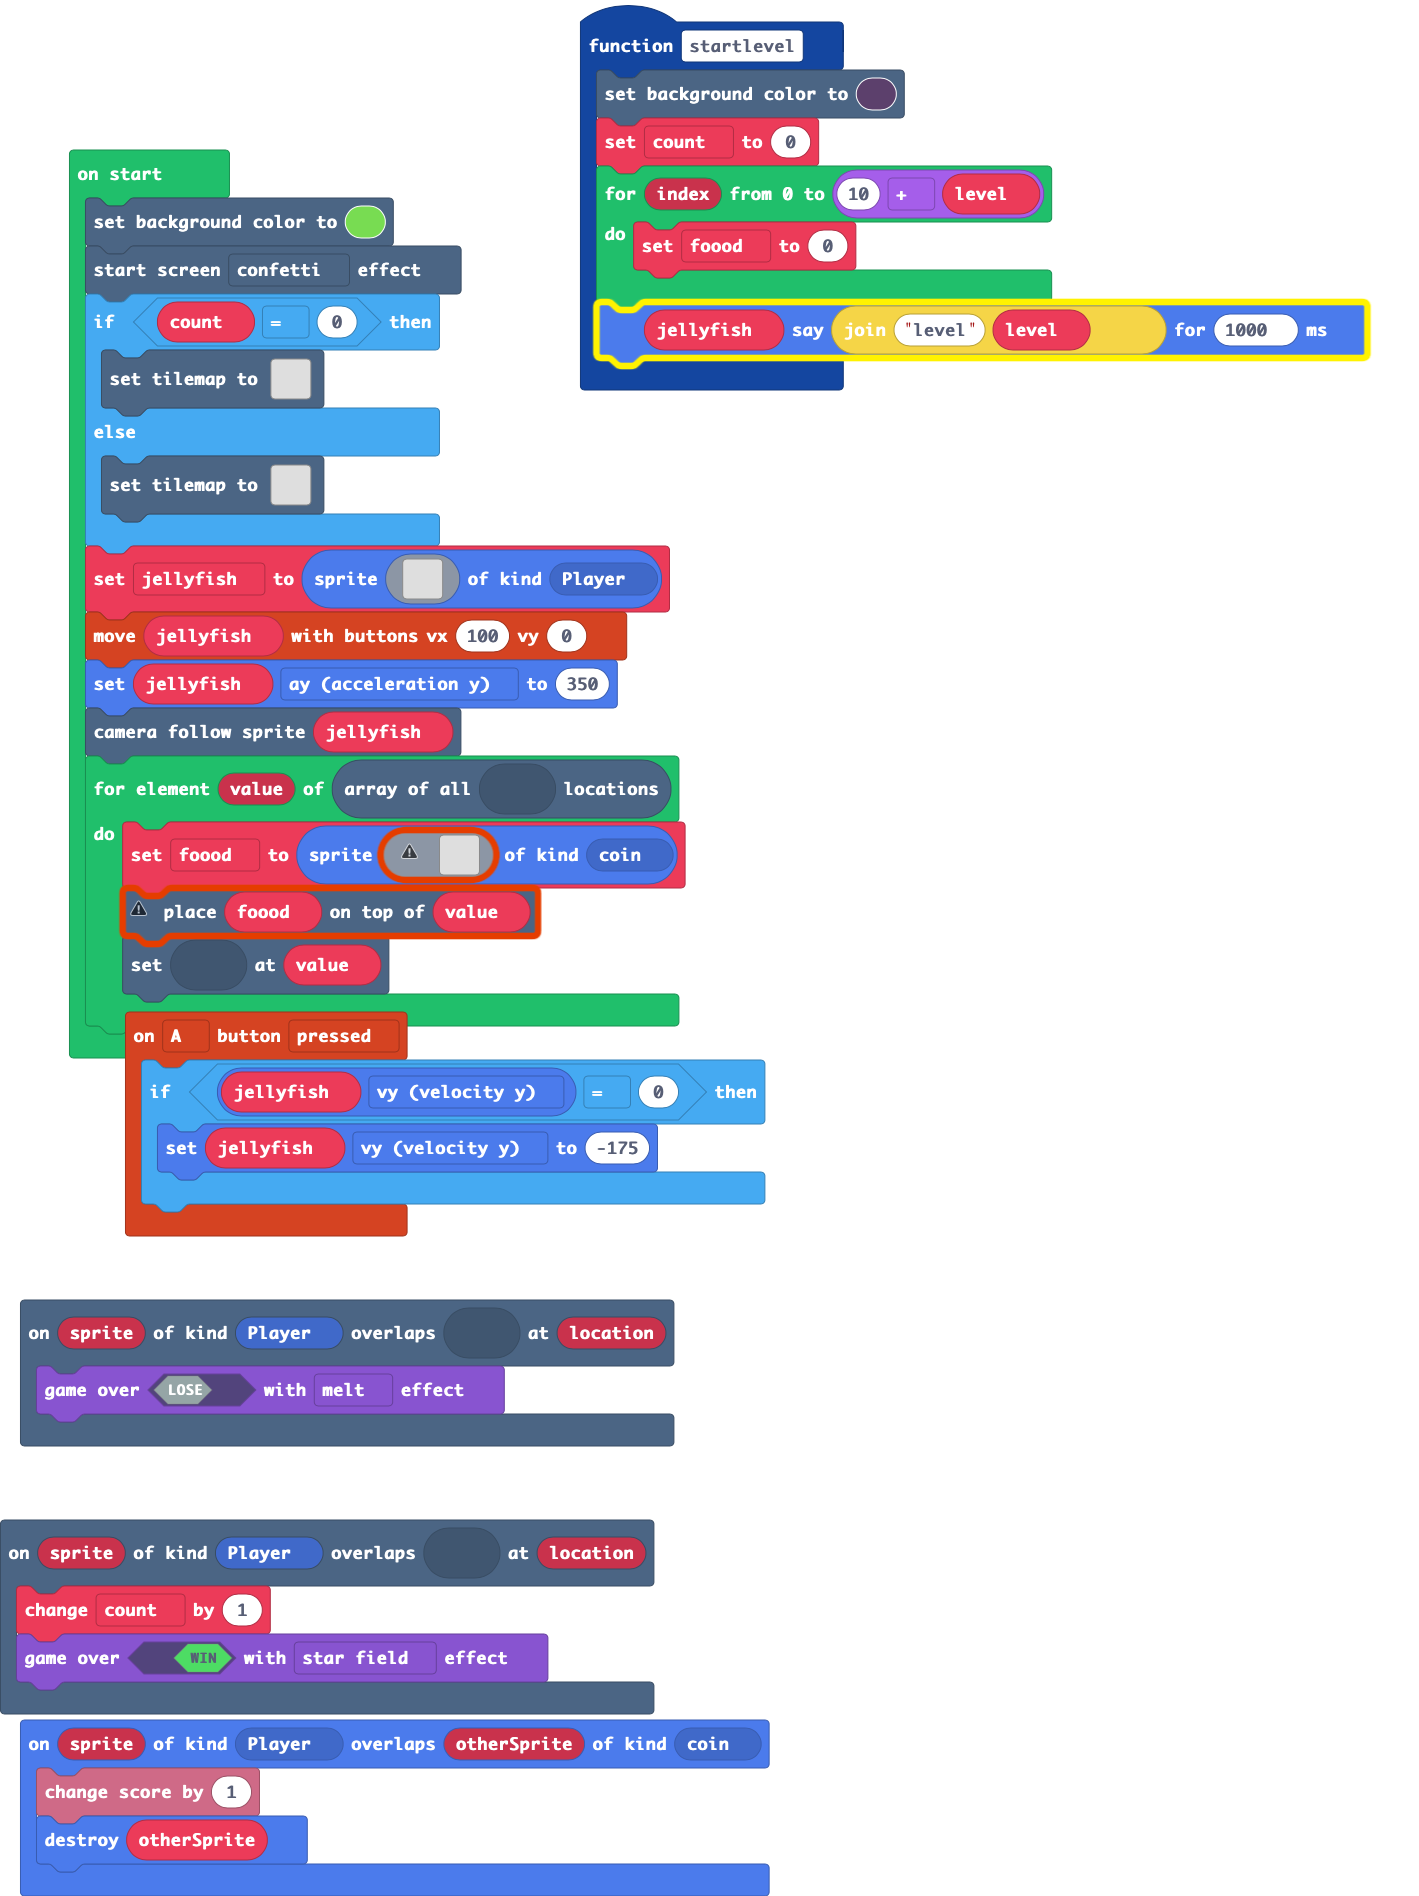
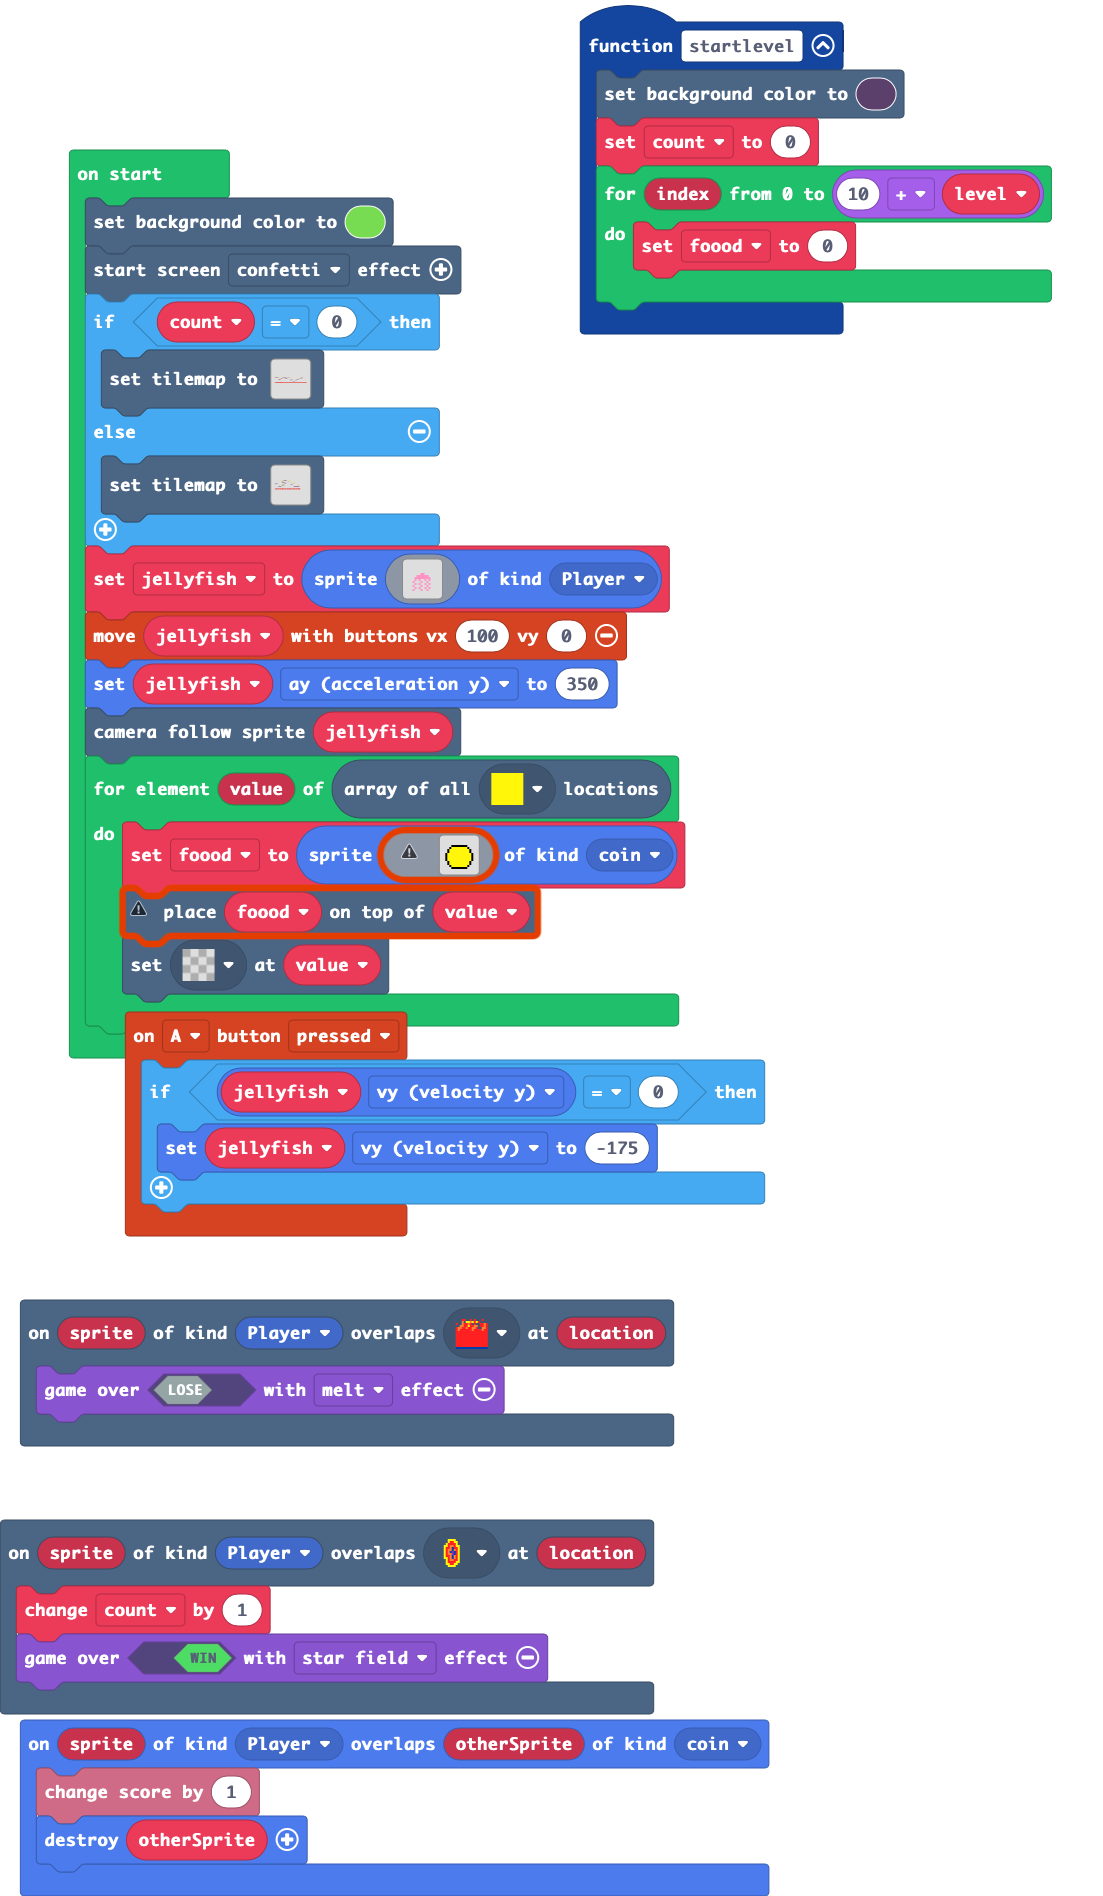
Update main.blocks, main.ts

Changed region(s): [[0.0308, 0.0, 0.9864, 0.6535], [0.0, 0.6846, 0.709, 1.0], [0.524, 0.9647, 0.709, 1.0]]

diff --git a/main.ts b/main.ts
@@ -1,6 +1,7 @@
 namespace SpriteKind {
     export const coin = SpriteKind.create()
 }
+let level = 0
 controller.A.onEvent(ControllerButtonEvent.Pressed, function () {
     if (jellyfish.vy == 0) {
         jellyfish.vy = -175
@@ -18,13 +19,11 @@ scene.onOverlapTile(SpriteKind.Player, assets.tile`tile2`, function (sprite, loc
     game.over(true, effects.starField)
 })
 function startlevel () {
-    let level = 0
     scene.setBackgroundColor(12)
     count = 0
     for (let index = 0; index <= 10 + level; index++) {
         foood = 0
     }
-    jellyfish.say("level" + level, 1000)
 }
 let foood = 0
 let jellyfish: Sprite = null
